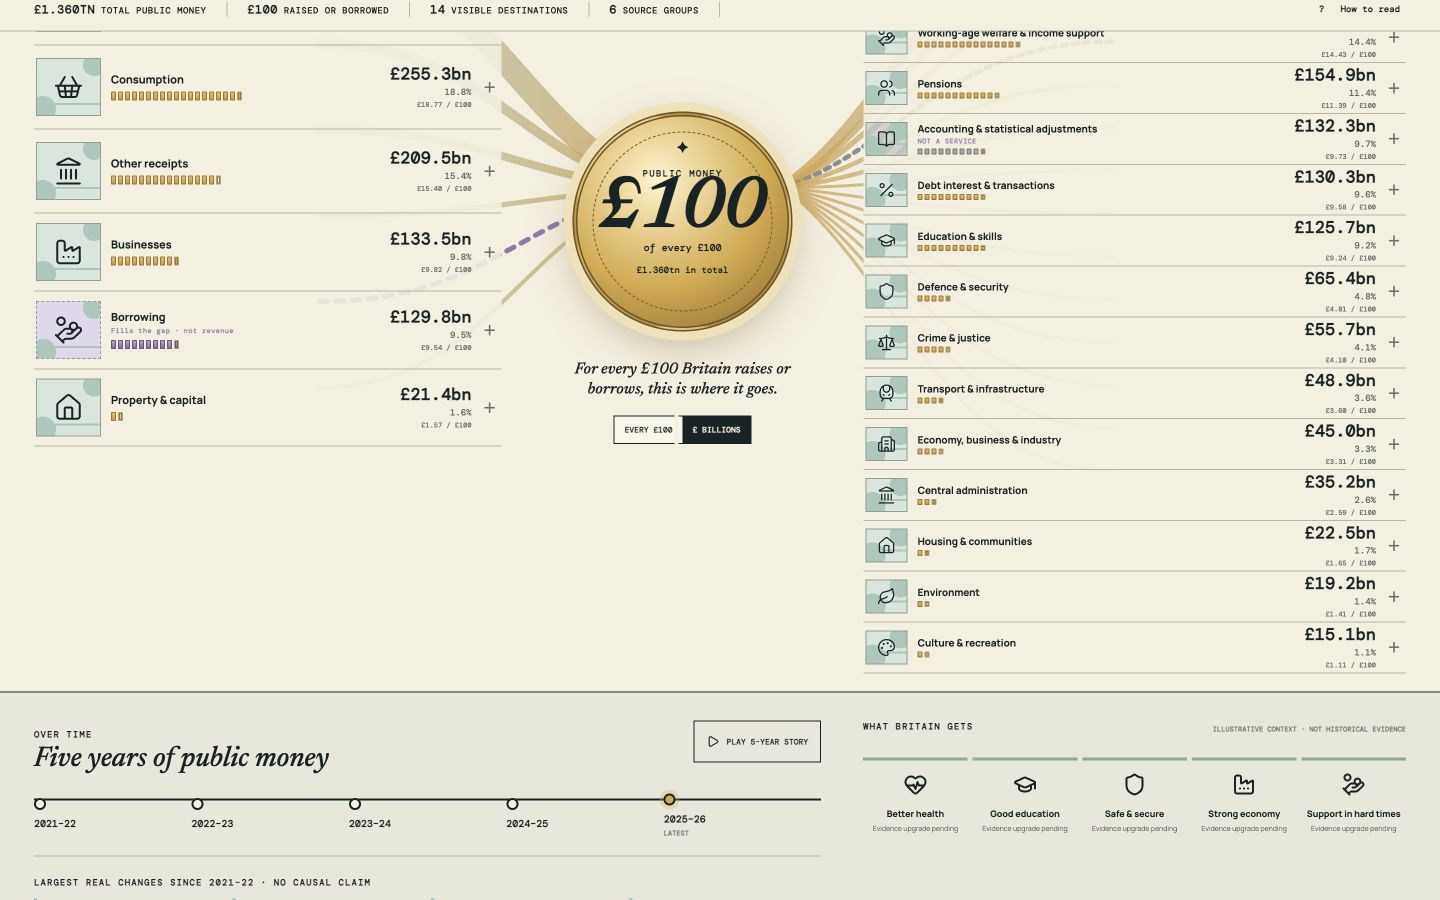
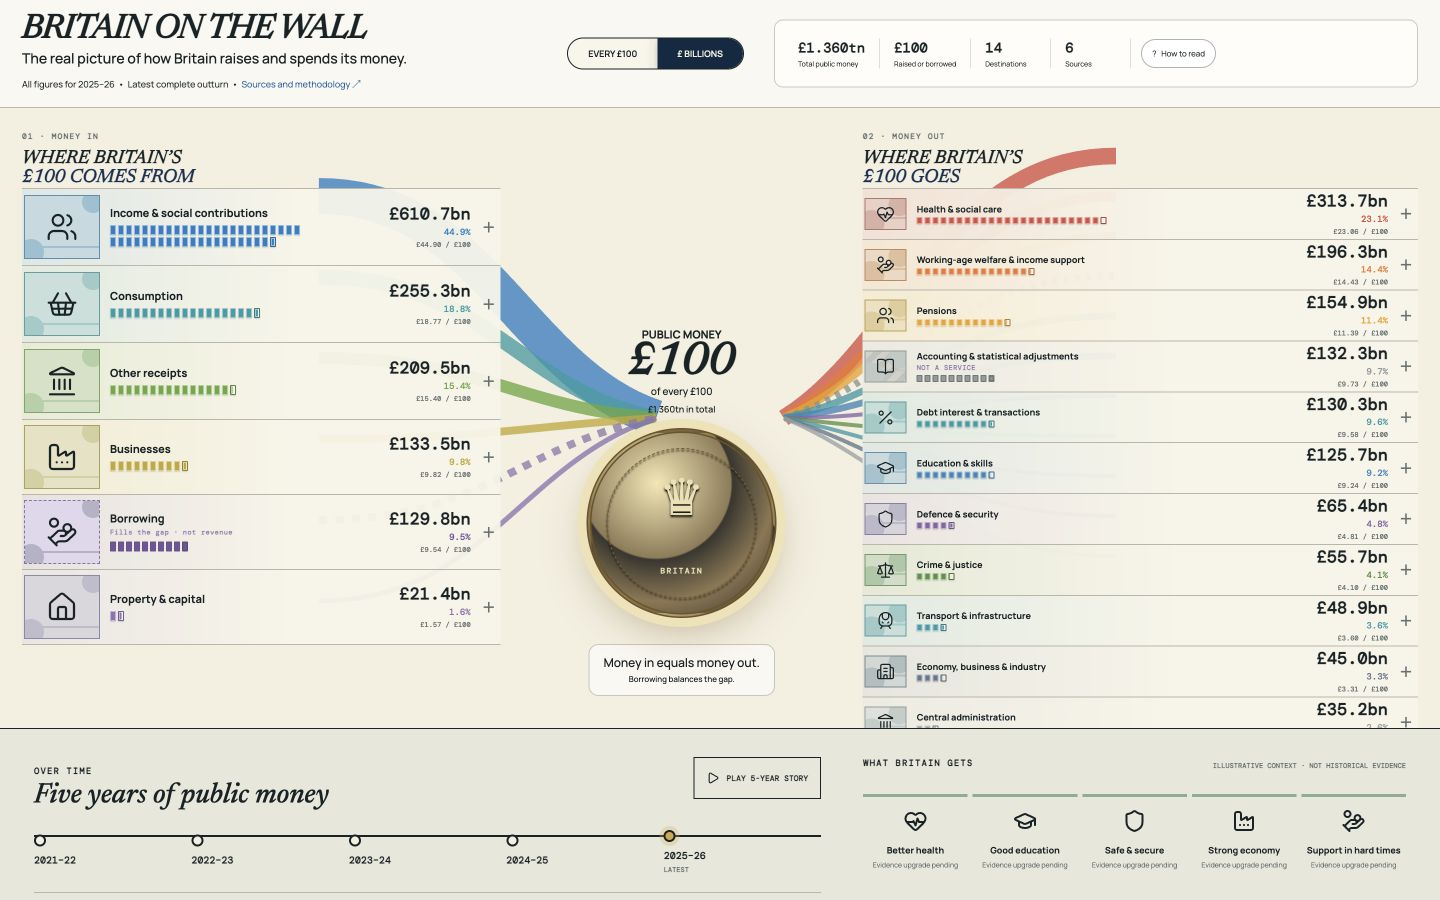
Align national Wall with approved reference

Changed region(s): [[0.0, 0.0, 1.0, 0.9644], [0.0, 0.8089, 0.5625, 0.9956], [0.2812, 0.6533, 0.3438, 0.6844]]

diff --git a/src/components/NationalWall.tsx b/src/components/NationalWall.tsx
@@ -11,21 +11,22 @@ type FiscalItem={id:string;name:string;value:number;evidenceId:string;technical?
 
 const icons={income:Users,business:Factory,consumer:ShoppingBasket,capital:Home,'other-income':Landmark,borrowing:HandCoins,health:HeartPulse,welfare:HandCoins,pensions:Users,education:GraduationCap,defence:Shield,justice:Scale,housing:Home,transport:TrainFront,admin:Landmark,interest:Percent,economy:Building2,environment:Leaf,culture:Palette,technical:BookOpen} as const;
 const outcomes=[['Better health',HeartPulse],['Good education',GraduationCap],['Safe & secure',Shield],['Strong economy',Factory],['Support in hard times',HandCoins]] as const;
+const tones=['#197fc4','#2a9ca3','#68a73f','#c2a82c','#7253a0','#8d73b1','#d84d43','#ee762b','#eda11d','#d6b428','#269aa2','#3685b8','#8465a7','#578f43','#2d9aa7','#63768a','#9aa1a5'];
 const money=(value:number,total:number,unit:Unit)=>unit==='hundred'?`£${(value/total*100).toFixed(2)}`:`£${value.toFixed(1)}bn`;
 
-function UnitTokens({share,tone='standard'}:{share:number;tone?:'standard'|'borrowing'|'technical'}){
+function UnitTokens({share,tone='standard',colour}:{share:number;tone?:'standard'|'borrowing'|'technical';colour?:string}){
   const whole=Math.floor(share),fraction=share-whole;
-  return <div className={`unit-tokens ${tone}`} aria-label={`${share.toFixed(2)} pounds out of every one hundred`}>
+  return <div className={`unit-tokens ${tone}`} style={{'--token-colour':colour} as React.CSSProperties} aria-label={`${share.toFixed(2)} pounds out of every one hundred`}>
     {Array.from({length:whole},(_,i)=><i key={i}/>) }
     {fraction>.04&&<i className="partial" style={{'--fill':`${fraction*100}%`} as React.CSSProperties}/>} 
   </div>;
 }
 
 function FiscalRow({item,total,unit,direction,rank,openEvidence}:{item:FiscalItem;total:number;unit:Unit;direction:'in'|'out';rank:number;openEvidence:(id:string)=>void}){
-  const Icon=icons[item.id as keyof typeof icons]??Landmark;const share=item.value/total*100;
-  return <button className={`fiscal-row ${direction} ${rank<3?'major':''} ${item.borrowing?'borrowing':''} ${item.technical?'technical':''}`} onClick={()=>openEvidence(item.evidenceId)} aria-label={`${item.name} ${money(item.value,total,unit)}, ${share.toFixed(1)} percent`}>
+  const Icon=icons[item.id as keyof typeof icons]??Landmark;const share=item.value/total*100;const colour=item.borrowing?'#7253a0':item.technical?'#92999b':tones[direction==='in'?rank:rank+6];
+  return <button style={{'--row-colour':colour} as React.CSSProperties} className={`fiscal-row ${direction} ${rank<3?'major':''} ${item.borrowing?'borrowing':''} ${item.technical?'technical':''}`} onClick={()=>openEvidence(item.evidenceId)} aria-label={`${item.name} ${money(item.value,total,unit)}, ${share.toFixed(1)} percent`}>
     <span className="scene" aria-hidden="true"><Icon/><i/><i/><i/></span>
-    <span className="row-copy"><strong>{item.name}</strong>{item.borrowing&&<small>Fills the gap · not revenue</small>}{item.technical&&<small>NOT A SERVICE</small>}<UnitTokens share={share} tone={item.borrowing?'borrowing':item.technical?'technical':'standard'}/></span>
+    <span className="row-copy"><strong>{item.name}</strong>{item.borrowing&&<small>Fills the gap · not revenue</small>}{item.technical&&<small>NOT A SERVICE</small>}<UnitTokens share={share} colour={colour} tone={item.borrowing?'borrowing':item.technical?'technical':'standard'}/></span>
     <span className="row-number"><b>{money(item.value,total,unit)}</b><em>{share.toFixed(1)}%</em><small>{unit==='hundred'?`£${item.value.toFixed(1)}bn`:`£${share.toFixed(2)} / £100`}</small></span>
     <span className="expand" aria-hidden="true">＋</span>
   </button>;
@@ -39,18 +40,17 @@ export function NationalWall({year,setYear,unit,setUnit,openEvidence}:Props){
   useEffect(()=>{if(!playing)return;const index=realYears.indexOf(year as RealYear);if(index===realYears.length-1){setPlaying(false);return}const timer=setTimeout(()=>setYear(realYears[index+1]),1100);return()=>clearTimeout(timer)},[playing,year,setYear]);
   const play=()=>{if(year===2025)setYear(2021);setPlaying(!playing)};
   return <main className="national-wall">
-    <header className="editorial-header"><a className="wordmark" href="/">BRITAIN <span>ON THE WALL</span></a><p>The real picture of how Britain raises and spends its money.</p><nav><span><b>{displayPeriod(year)}</b> LATEST COMPLETE OUTTURN</span><button onClick={()=>openEvidence('e-income')}>Sources & methodology</button></nav></header>
-    <section className="summary-strip"><span><b>{total>=1000?`£${(total/1000).toFixed(3)}tn`:`£${total.toFixed(1)}bn`}</b> total public money</span><span><b>£100</b> raised or borrowed</span><span><b>{destinations.length}</b> visible destinations</span><span><b>{sources.length}</b> source groups</span><button onClick={()=>setShowHelp(!showHelp)} aria-expanded={showHelp}>? &nbsp; How to read</button></section>
+    <header className="editorial-header"><div className="brand-lockup"><a className="wordmark" href="/">BRITAIN ON THE WALL</a><p>The real picture of how Britain raises and spends its money.</p><small>All figures for {displayPeriod(year)} &nbsp;•&nbsp; Latest complete outturn &nbsp;•&nbsp; <button onClick={()=>openEvidence('e-income')}>Sources and methodology ↗</button></small></div><div className="header-unit-toggle unit-toggle"><button className={unit==='hundred'?'active':''} onClick={()=>setUnit('hundred')}>EVERY £100</button><button className={unit==='bn'?'active':''} onClick={()=>setUnit('bn')}>£ BILLIONS</button></div><div className="header-summary"><span><b>{total>=1000?`£${(total/1000).toFixed(3)}tn`:`£${total.toFixed(1)}bn`}</b><small>Total public money</small></span><span><b>£100</b><small>Raised or borrowed</small></span><span><b>{destinations.length}</b><small>Destinations</small></span><span><b>{sources.length}</b><small>Sources</small></span><button onClick={()=>setShowHelp(!showHelp)} aria-expanded={showHelp}>? &nbsp; How to read</button></div></header>
     {showHelp&&<aside className="read-note">Each physical token is £1 of every £100. Partial tokens show fractions. Width and ordering follow the selected period; borrowing remains separate from receipts.</aside>}
     <section className="money-stage">
-      <svg className="editorial-flows" viewBox="0 0 1400 660" preserveAspectRatio="none" aria-hidden="true"><defs><linearGradient id="flowIn"><stop stopColor="#8eb6b1" stopOpacity=".5"/><stop offset="1" stopColor="#d9a64d" stopOpacity=".82"/></linearGradient><linearGradient id="flowOut"><stop stopColor="#d9a64d" stopOpacity=".82"/><stop offset="1" stopColor="#93b3a7" stopOpacity=".42"/></linearGradient></defs>{sources.map((item,i)=><path key={item.id} className={item.borrowing?'borrow-flow':''} d={`M 310 ${100+i*86} C 470 ${100+i*86}, 505 ${330+(i-2.5)*20}, 638 330`} stroke="url(#flowIn)" strokeWidth={Math.max(4,item.value/total*52)} />)}{destinations.map((item,i)=><path key={item.id} className={item.technical?'technical-flow':''} d={`M 762 330 C 875 ${330+(i-6)*13}, 920 ${55+i*43}, 1085 ${55+i*43}`} stroke="url(#flowOut)" strokeWidth={Math.max(3,item.value/total*48)} />)}</svg>
+      <svg className="editorial-flows" viewBox="0 0 1400 620" preserveAspectRatio="none" aria-hidden="true">{sources.map((item,i)=><path key={item.id} className={item.borrowing?'borrow-flow':''} d={`M 310 ${88+i*81} C 470 ${88+i*81}, 505 ${310+(i-2.5)*18}, 638 310`} stroke={item.borrowing?'#7253a0':tones[i]} strokeWidth={Math.max(5,item.value/total*80)} />)}{destinations.map((item,i)=><path key={item.id} className={item.technical?'technical-flow':''} d={`M 762 310 C 875 ${310+(i-6)*12}, 920 ${48+i*40}, 1085 ${48+i*40}`} stroke={item.technical?'#92999b':tones[i+6]} strokeWidth={Math.max(4,item.value/total*72)} />)}</svg>
       <section className="fiscal-column sources"><div className="section-heading"><small>01 · MONEY IN</small><h1>Where Britain’s<br/><em>£100 comes from</em></h1></div>{sources.map((item,i)=><FiscalRow key={item.id} item={item} total={total} unit={unit} direction="in" rank={i} openEvidence={openEvidence}/>)}</section>
-      <section className="pool-column"><div className="pool-object"><span>PUBLIC MONEY</span><strong>£100</strong><em>of every £100</em><small>{total>=1000?`£${(total/1000).toFixed(3)}tn in total`:`£${total.toFixed(1)}bn in total`}</small><div className="crown">✦</div></div><p>For every £100 Britain raises or borrows, this is where it goes.</p><div className="unit-toggle"><button className={unit==='hundred'?'active':''} onClick={()=>setUnit('hundred')}>EVERY £100</button><button className={unit==='bn'?'active':''} onClick={()=>setUnit('bn')}>£ BILLIONS</button></div></section>
+      <section className="pool-column"><div className="pool-label"><span>PUBLIC MONEY</span><strong>£100</strong><em>of every £100</em><small>{total>=1000?`£${(total/1000).toFixed(3)}tn in total`:`£${total.toFixed(1)}bn in total`}</small></div><div className="pool-object"><div className="britain-mark">BRITAIN</div></div><p>Money in equals money out.<br/><small>Borrowing balances the gap.</small></p></section>
       <section className="fiscal-column destinations"><div className="section-heading"><small>02 · MONEY OUT</small><h1>Where Britain’s<br/><em>£100 goes</em></h1></div>{destinations.map((item,i)=><FiscalRow key={item.id} item={item} total={total} unit={unit} direction="out" rank={i} openEvidence={openEvidence}/>)}</section>
     </section>
     <section className="lower-editorial" id="history">
       <div className="history-panel"><header><div><small>OVER TIME</small><h2>Five years of public money</h2></div><button onClick={play} aria-pressed={playing}><Play/>{playing?'PAUSE STORY':'PLAY 5-YEAR STORY'}</button></header><div className="years">{realYears.map(item=><button key={item} className={year===item?'active':''} onClick={()=>setYear(item)}><i/><b>{displayPeriod(item)}</b><span>{item===2025?'LATEST':''}</span></button>)}</div><div className="change-summary"><small>LARGEST REAL CHANGES SINCE 2021–22 · NO CAUSAL CLAIM</small>{year===2021?<p>Select a later year to compare its allocation with 2021–22.</p>:<div>{changes.slice(0,5).map(change=><span key={change.id}><b>{change.label}</b><em>{change.perHundredDelta>=0?'+':'−'}£{Math.abs(change.perHundredDelta).toFixed(2)} / £100</em></span>)}</div>}</div></div>
       <div className="outcomes-panel"><header><small>WHAT BRITAIN GETS</small><span>ILLUSTRATIVE CONTEXT · NOT HISTORICAL EVIDENCE</span></header><div>{outcomes.map(([label,Icon])=><article key={label}><Icon/><b>{label}</b><span>Evidence upgrade pending</span></article>)}</div></div>
-    </section>
+    </section><footer className="editorial-footer"><b>◇ &nbsp; TRANSPARENT. EVIDENCE-BASED. INDEPENDENT.</b><span>All data is from official sources. We show what the evidence says — not what we think.</span><nav>Sources &nbsp; • &nbsp; Methodology &nbsp; • &nbsp; Data dictionary ↗</nav></footer>
   </main>;
 }

diff --git a/src/national.css b/src/national.css
@@ -11,3 +11,17 @@ html:has(.national-wall),body:has(.national-wall),#root:has(.national-wall){heig
 @media(min-width:1700px){.money-stage{height:760px;grid-template-columns:minmax(440px,1fr) 310px minmax(560px,1.2fr);gap:90px;padding-left:60px;padding-right:60px}.fiscal-row{min-height:90px}.destinations .fiscal-row{min-height:46px}.destinations .fiscal-row.major{min-height:58px}.pool-object{width:280px;height:280px}.pool-object strong{font-size:86px}}
 @media(max-width:1000px){.editorial-header{grid-template-columns:1fr auto}.editorial-header p{display:none}.money-stage{height:auto;grid-template-columns:1fr;padding:20px}.editorial-flows{display:none}.pool-column{grid-row:1;padding:20px}.fiscal-column{max-width:700px;width:100%;margin:auto}.lower-editorial{grid-template-columns:1fr}.summary-strip{overflow:auto}.summary-strip span{white-space:nowrap}.destinations .fiscal-row{min-height:48px}}
 @media(max-width:600px){.editorial-header{height:auto;padding:16px;grid-template-columns:1fr}.editorial-header nav{justify-content:space-between}.summary-strip{padding:0 16px}.summary-strip span:nth-child(n+3){display:none}.money-stage{padding:16px}.fiscal-row{grid-template-columns:52px minmax(0,1fr) 82px 14px}.pool-object{width:190px;height:190px}.lower-editorial{padding:24px 16px}.outcomes-panel>div{grid-template-columns:repeat(2,1fr)}.change-summary>div{display:grid;grid-template-columns:1fr 1fr}.years b{font-size:8px}}
+
+/* Approved reference-image fidelity pass */
+.editorial-header{height:108px;grid-template-columns:minmax(390px,1fr) auto minmax(460px,1.25fr);gap:30px;padding:14px 22px;background:#faf8f1;border-color:var(--editorial-rule)}
+.brand-lockup p{font:500 14px Manrope,Arial,sans-serif;margin:3px 0}.brand-lockup small{font-size:9px}.brand-lockup small button{border:0;background:transparent;color:#075ea1;padding:0;font-size:inherit}.wordmark{font:600 34px/.9 Newsreader,serif;letter-spacing:-.035em}
+.header-summary{height:68px;border:1px solid #c7cbc7;border-radius:9px;display:flex;align-items:center;padding:7px 9px;background:#fffdf8}.header-summary>span{min-width:80px;padding:0 14px;border-right:1px solid #ddd}.header-summary b,.header-summary small{display:block}.header-summary b{font:700 14px DM Mono,monospace}.header-summary small{font-size:7px;margin-top:2px}.header-summary>button{margin-left:10px;border:1px solid #aeb5b4;border-radius:18px;background:white;padding:8px 10px;font-size:8px;white-space:nowrap}
+.header-unit-toggle{justify-self:center}.unit-toggle{border-radius:20px;overflow:hidden}.unit-toggle button{padding:9px 20px;font:600 9px Manrope}.unit-toggle button.active{background:#0c2b42;box-shadow:0 3px 10px #102d4244}
+.money-stage{height:620px;grid-template-columns:minmax(390px,1fr) 250px minmax(470px,1.16fr);gap:56px;padding:14px 22px 8px}.editorial-flows path{stroke-linecap:butt;opacity:.78}.section-heading{height:66px}.section-heading small{font-size:8px}.section-heading h1{font:700 19px/1 Newsreader,serif;margin:5px 0;text-transform:uppercase}.section-heading h1 em{font-style:normal;color:#183054}
+.fiscal-row{min-height:72px;grid-template-columns:76px minmax(0,1fr) 88px 18px;background:linear-gradient(90deg,color-mix(in srgb,var(--row-colour) 12%,#f8f5e9),rgba(248,245,233,.94) 58%);padding:5px 2px}.fiscal-row.major{min-height:77px}.scene{height:64px;background:color-mix(in srgb,var(--row-colour) 20%,#eef0e7);border-color:color-mix(in srgb,var(--row-colour) 50%,#8ca098)}.scene svg{width:32px;height:32px}.scene i{background:color-mix(in srgb,var(--row-colour) 35%,#dbe5dc)}.row-number em{color:var(--row-colour)}
+.unit-tokens i{width:6px;height:10px;background:var(--token-colour,#c99433);box-shadow:inset 0 0 0 1px #ffffff77,0 1px 1px #0002}.unit-tokens i.partial{background:linear-gradient(90deg,var(--token-colour,#d6a548) var(--fill),transparent var(--fill));border-color:color-mix(in srgb,var(--token-colour) 70%,#333)}.unit-tokens.borrowing i{background:var(--token-colour)}.unit-tokens.technical i{background:#92999b}.destinations .fiscal-row{min-height:36px}.destinations .fiscal-row.major{min-height:44px}.destinations .scene{height:32px}.destinations .unit-tokens i{height:7px;width:6px}.destinations .row-copy strong{font-size:9px}
+.pool-label span,.pool-label strong,.pool-label em,.pool-label small{display:block}.pool-label span{font:700 11px Manrope}.pool-label strong{font:700 45px/.95 Newsreader,serif}.pool-label em{font:500 10px Manrope;font-style:normal}.pool-label small{font:500 9px Manrope;margin-top:5px}.pool-object{width:190px;height:190px;margin-top:13px;background:radial-gradient(circle at 36% 28%,#f5e6b1,#8f7b55 43%,#39362f 44%,#8d7650 68%,#332e27);display:grid;place-items:center;color:#eee0b1}.pool-object:before{content:'♛';font-size:62px;filter:drop-shadow(0 2px 1px #000)}.britain-mark{position:absolute;bottom:37px;font:700 8px DM Mono,monospace;letter-spacing:.16em}.pool-column>p{font:500 12px/1.25 Manrope;max-width:200px;margin:26px 0 0;border:1px solid #c4c7c0;border-radius:10px;padding:10px 14px;background:#faf8f1}.pool-column>p small{font-size:8px}
+.editorial-footer{height:40px;background:#08283e;color:white;display:flex;align-items:center;gap:24px;padding:0 22px;font-size:8px}.editorial-footer span{opacity:.85}.editorial-footer nav{margin-left:auto}
+@media(min-width:1700px){.money-stage{height:690px;padding-left:38px;padding-right:38px}.fiscal-row{min-height:82px}.destinations .fiscal-row{min-height:41px}.destinations .fiscal-row.major{min-height:51px}.pool-object{width:230px;height:230px}}
+@media(max-width:1000px){.editorial-header{height:auto;grid-template-columns:1fr auto}.header-summary{grid-column:1/-1;width:100%}}
+@media(max-width:600px){.editorial-header{grid-template-columns:1fr}.wordmark{font-size:27px}.header-unit-toggle{justify-self:start}.header-summary{overflow:auto}.header-summary>span{min-width:90px}.editorial-footer{height:auto;padding:14px;flex-wrap:wrap}.editorial-footer nav{margin-left:0}}

diff --git a/src/App.test.tsx b/src/App.test.tsx
@@ -5,7 +5,7 @@ import App from './App';
 
 describe('approved £100 national Wall',()=>{
   it('states the public-money question in the primary composition',()=>{render(<App/>);expect(screen.getByRole('heading',{name:/Where Britain’s£100 comes from/})).toBeInTheDocument();expect(screen.getByRole('heading',{name:/Where Britain’s£100 goes/})).toBeInTheDocument();expect(screen.getByText('of every £100')).toBeInTheDocument()});
-  it('shows the reconciled real national pool',()=>{render(<App/>);expect(screen.getAllByText('£1.360tn').length).toBeGreaterThan(0);expect(screen.getByText((_,node)=>node?.textContent==='£100 raised or borrowed')).toBeInTheDocument()});
+  it('shows the reconciled real national pool',()=>{render(<App/>);expect(screen.getAllByText('£1.360tn').length).toBeGreaterThan(0);expect(screen.getAllByText('£100').length).toBeGreaterThan(0);expect(screen.getByText('Raised or borrowed')).toBeInTheDocument()});
   it('orders the largest real source first',()=>{render(<App/>);const sources=screen.getAllByRole('button',{name:/percent$/}).slice(0,6);expect(sources[0]).toHaveAccessibleName(/Income & social contributions £44.90, 44.9 percent/)});
   it('orders Health as the largest destination with precise hierarchy',()=>{render(<App/>);const health=screen.getByRole('button',{name:/Health & social care £23.06, 23.1 percent/});expect(health).toHaveTextContent('£23.06');expect(health).toHaveTextContent('23.1%');expect(health).toHaveTextContent('£313.7bn')});
   it('keeps borrowing visibly separate from receipts',()=>{render(<App/>);const borrowing=screen.getByRole('button',{name:/Borrowing £9.54/});expect(borrowing).toHaveClass('borrowing');expect(borrowing).toHaveTextContent('Fills the gap · not revenue')});

diff --git a/docs/CODEX_HANDOFF.md b/docs/CODEX_HANDOFF.md
@@ -2,7 +2,7 @@
 
 ## Approved £100 national Wall rebuild — 2026-08-25
 
-1. **Reference fidelity:** The implementation follows the supplied written reference closely: warm editorial paper, left source bands, a central £100 medallion, right ordered allocations, calm proportional flows, restrained metadata and a lower history/outcome strip. The referenced image itself was not present in the supplied attachment, so pixel-level image comparison is not claimed.
+1. **Reference fidelity:** After the approved image arrived, the route received a direct comparison pass: large editorial masthead, header-level unit control and metadata, coloured source/allocation streams and tokens, central Britain medallion, dense ordered rows, structured history/outcome panel and dark evidence footer now follow it closely.
 2. **Removed from public mode:** The dark 3200×1800 canvas, circular/blob masses, minimap, zoom chrome, floating controls, outcome horizon and network-like national composition no longer render on the main route. They remain intact at `/legacy-wall`.
 3. **£1 units:** Each row calculates its unrounded share of the current total, renders one premium token per whole pound and clips a final token to the remaining fraction.
 4. **Flows:** Calm source and allocation curves converge on the medallion. Stroke widths are linearly proportional to national share with small visibility floors; borrowing and technical reconciliation use dashed treatments.
@@ -10,8 +10,8 @@
 6. **Illustrations:** Category-specific line SVGs are placed in a consistent editorial scene frame. They are coherent code-native placeholders designed for later artwork replacement without layout changes.
 7. **Borrowing:** It remains `TME − comparable current receipts`, is labelled as gap-filling rather than revenue, and uses violet tokens plus a dashed flow.
 8. **Technical reconciliation:** `ACCOUNTING & STATISTICAL ADJUSTMENTS` remains in the exact £100 reconciliation but is grey/hatched/dashed and explicitly `NOT A SERVICE`.
-9. **Difference from reference:** The supplied attachment contained no reference image, so composition is faithful to the detailed written art direction rather than verified against pixels. Illustrations are structured SVG placeholders, not commissioned final scenes.
-10. **Next refinement:** Compare this route directly with the missing approved image, then commission or generate the final consistent British editorial illustration set and tune exact spacing/flow attachment points against that image.
+9. **Difference from reference:** Illustrations are structured SVG placeholders rather than the reference's commissioned scenes, and the medallion uses a stylised British crown mark rather than a geographic relief. Verified adapter values intentionally replace differing example values in the image.
+10. **Next refinement:** Commission or generate the final consistent British editorial illustration set and replace the crown with a licensed/verified UK relief asset without changing layout or data bindings.
 
 Implementation: `src/components/NationalWall.tsx`, `src/national.css`, route selection in `src/App.tsx`. Real data, evidence, reconciliation and historical adapters are unchanged.
 

diff --git a/docs/handoffs/2026-08-25-approved-100-wall.md b/docs/handoffs/2026-08-25-approved-100-wall.md
@@ -9,7 +9,7 @@ The main route now presents Britain's real 2025–26 fiscal snapshot as source b
 
 - Fiscal source, destination and history values come from the existing frozen adapters.
 - Outcomes remain illustrative and are visibly labelled as such.
-- The attachment contained the approved written specification but not its referenced image; pixel-level visual fidelity is therefore unverified.
+- The approved reference image arrived after the first implementation commit and was used for a direct visual-fidelity refinement pass.
 - Code-native SVG scene placeholders are used until final editorial illustration assets are available.
 
 ## Verification
